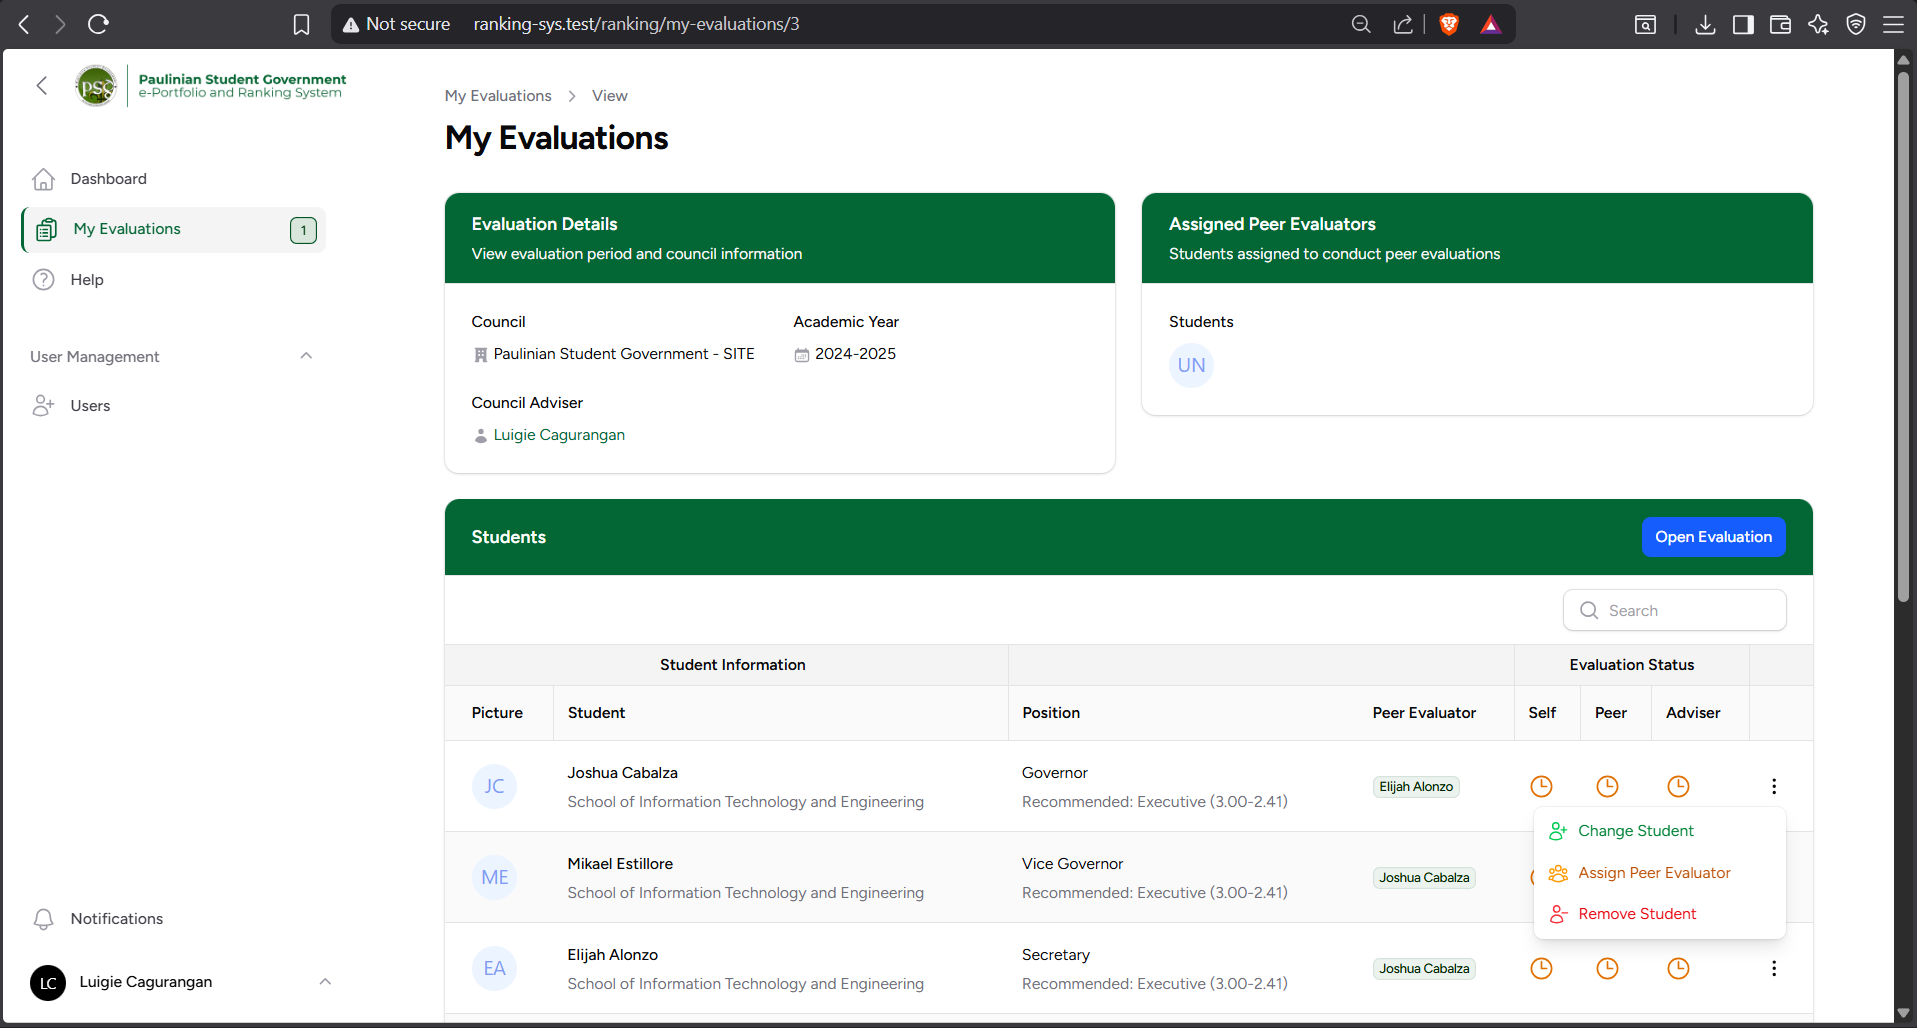
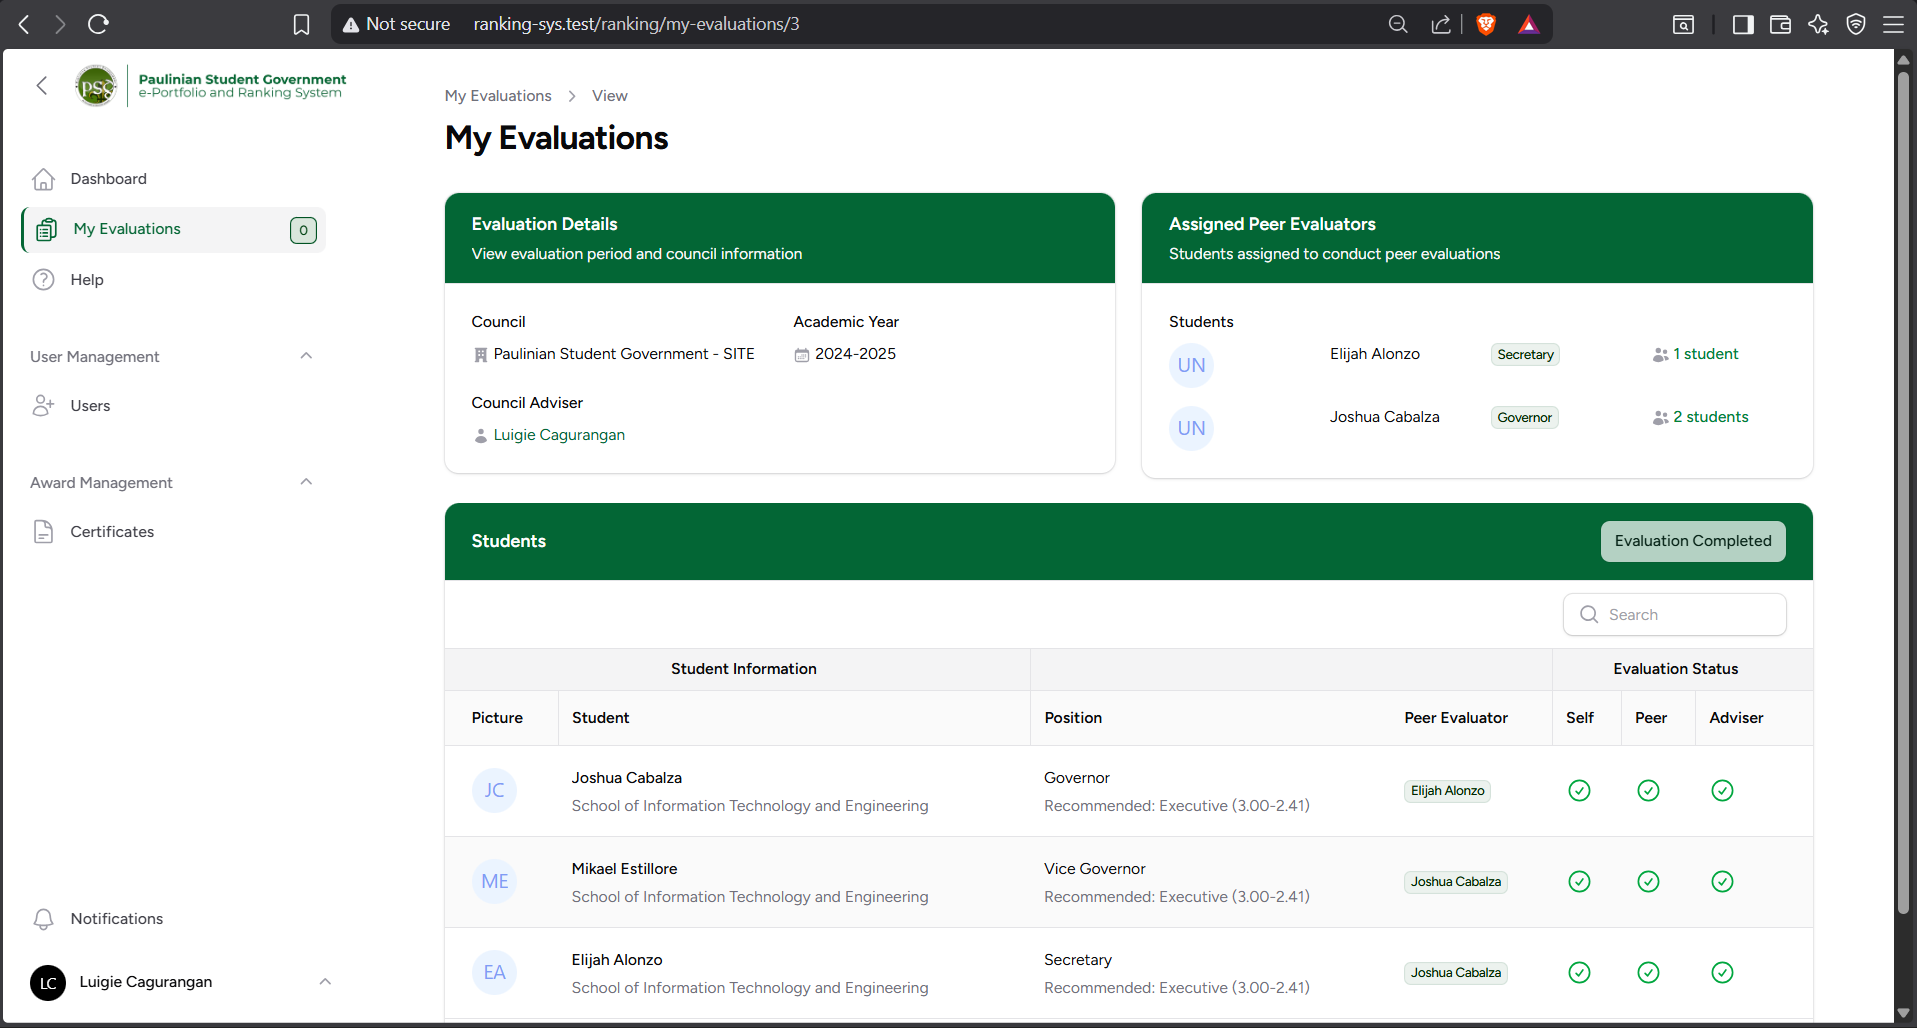
add | award constarint

diff --git a/app/Filament/Resources/Certificates/Schemas/CertificateForm.php b/app/Filament/Resources/Certificates/Schemas/CertificateForm.php
@@ -23,18 +23,32 @@ class CertificateForm
                     ->schema([
                         Select::make('user_ids')
                             ->label('Students')
-                            ->options(User::where('role', 'student')->pluck('name', 'id'))
+                            ->options(function () {
+                                $query = User::query()->where('role', 'student');
+
+                                if (auth()->user()?->role === 'adviser') {
+                                    $query->where('department_id', auth()->user()?->department_id);
+                                }
+
+                                return $query->pluck('name', 'id');
+                            })
                             ->searchable()
                             ->multiple()
-                            ->required(fn ($record) => auth()->user()?->role === 'admin' && $record === null)
-                            ->visible(fn ($record) => auth()->user()?->role === 'admin' && $record === null)
+                            ->required(fn ($record) => in_array(auth()->user()?->role, ['admin', 'adviser'], true) && $record === null)
+                            ->visible(fn ($record) => in_array(auth()->user()?->role, ['admin', 'adviser'], true) && $record === null)
                             ->columnSpan(2),
                         Select::make('user_id')
                             ->label('Student')
-                            ->relationship('user', 'name', fn (Builder $query) => $query->where('role', 'student'))
+                            ->relationship('user', 'name', function (Builder $query) {
+                                $query->where('role', 'student');
+
+                                if (auth()->user()?->role === 'adviser') {
+                                    $query->where('department_id', auth()->user()?->department_id);
+                                }
+                            })
                             ->searchable()
-                            ->required(fn ($record) => auth()->user()?->role === 'admin' && $record !== null)
-                            ->visible(fn ($record) => auth()->user()?->role === 'admin' && $record !== null)
+                            ->required(fn ($record) => in_array(auth()->user()?->role, ['admin', 'adviser'], true) && $record !== null)
+                            ->visible(fn ($record) => in_array(auth()->user()?->role, ['admin', 'adviser'], true) && $record !== null)
                             ->columnSpan(2),
                         FileUpload::make('file_path')
                             ->columnSpan(2)

diff --git a/app/Filament/Resources/Certificates/CertificateResource.php b/app/Filament/Resources/Certificates/CertificateResource.php
@@ -27,17 +27,17 @@ class CertificateResource extends Resource
 
     protected static ?int $navigationSort = 2;
 
-    protected static ?string $navigationLabel = 'Certificates';
+    protected static ?string $navigationLabel = 'Issue Certificates';
 
     public static function canAccess(): bool
     {
         $user = Auth::user();
-        return $user && in_array($user->role, ['admin', 'student'], true);
+        return $user && in_array($user->role, ['admin', 'adviser', 'student'], true);
     }
 
     public static function shouldRegisterNavigation(): bool
     {
-        return auth()->user()?->role === 'admin';
+        return in_array(auth()->user()?->role, ['admin', 'adviser'], true);
     }
 
     public static function form(Schema $schema): Schema
@@ -58,6 +58,15 @@ class CertificateResource extends Resource
             return $query;
         }
 
+        if (auth()->user()?->role === 'adviser') {
+            $departmentId = auth()->user()?->department_id;
+
+            return $query->whereHas('user', function (Builder $builder) use ($departmentId): void {
+                $builder->where('role', 'student')
+                    ->when($departmentId, fn (Builder $query) => $query->where('department_id', $departmentId));
+            });
+        }
+
         return $query->where('user_id', Auth::id());
     }
 
@@ -68,7 +77,7 @@ class CertificateResource extends Resource
 
     public static function canCreate(): bool
     {
-        return auth()->user()?->role === 'admin';
+        return in_array(auth()->user()?->role, ['admin', 'adviser'], true);
     }
 
     public static function canEdit($record): bool

diff --git a/resources/views/Help/Adviser.blade.php b/resources/views/Help/Adviser.blade.php
@@ -58,5 +58,19 @@
                 >
             </figure>
         </div>
+
+        <div class="help-section">
+            <h2 class="help-section-title">Certificates</h2>
+            <p class="text-sm text-gray-600">
+                Advisers can issue certificates to students within the same department. Once a certificate is issued, it is automatically reflected in the recipient's portfolio, where the student can view and download it at any time.
+            </p>
+            <figure class="help-figure">
+                <img
+                    class="help-image"
+                    src="{{ asset('assets/adviser/certificates.png') }}"
+                    alt="Certificate management view"
+                >
+            </figure>
+        </div>
     @endcomponent
 </x-filament-panels::page>

diff --git a/app/Filament/Resources/Certificates/Pages/CreateCertificate.php b/app/Filament/Resources/Certificates/Pages/CreateCertificate.php
@@ -16,7 +16,7 @@ class CreateCertificate extends CreateRecord
 
     protected function mutateFormDataBeforeCreate(array $data): array
     {
-        if (auth()->user()?->role !== 'admin') {
+        if (auth()->user()?->role === 'student') {
             $data['user_id'] = auth()->id();
             $this->issuedUserIds = [$data['user_id']];
             return $data;

diff --git a/app/Filament/Resources/Councils/CouncilResource.php b/app/Filament/Resources/Councils/CouncilResource.php
@@ -30,6 +30,8 @@ class CouncilResource extends Resource
 
     protected static UnitEnum|string|null $navigationGroup = 'Council Management';
 
+    protected static ?string $navigationLabel = 'Available Councils';
+
     protected static ?int $navigationSort = 4;
 
     public static function form(Schema $schema): Schema

diff --git a/app/Filament/Resources/Certificates/Pages/ListCertificates.php b/app/Filament/Resources/Certificates/Pages/ListCertificates.php
@@ -15,7 +15,7 @@ class ListCertificates extends ListRecords
     {
         $actions = [];
 
-        if (auth()->user()?->role === 'admin') {
+        if (in_array(auth()->user()?->role, ['admin', 'adviser'], true)) {
             $actions[] = CreateAction::make();
         }
 
